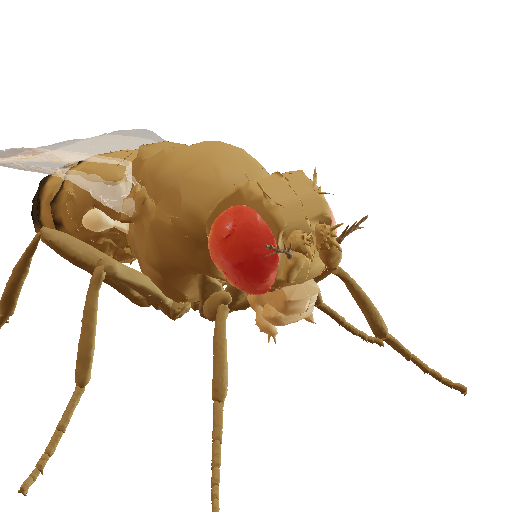
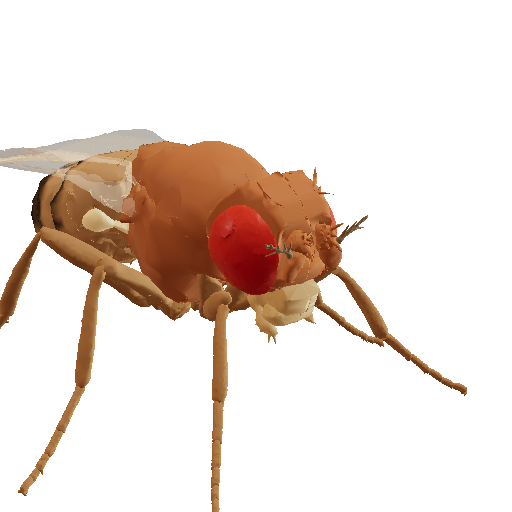
feat(concept): fly colors matched to a photograph of a real male
Measured from A. Karwath's photo of a male D. melanogaster on Wikimedia
Commons: thorax about #d09066 (ours now renders #cb874d), eye scarlet
#e72605, a paler cream abdomen between the dark bands, amber legs, clearer
wings. The body was mustard-yellow and the eye salmon before. Avatars
re-rendered.

Changed region(s): [[0.2188, 0.25, 0.6875, 0.5938]]

diff --git a/docs/concept/fly3d.js b/docs/concept/fly3d.js
@@ -211,14 +211,18 @@ window.Fly3D = function (opts) {
     // the rear edge of each abdominal tergite, and the last two tergites dark all over, which is what
     // marks a male. The pigment is on the back; the underside stays pale. The brain here is a male's.
     // The body scan, NeuroMechFly, is from a female, so the shape is hers and the coloring is his.
-    const matFor = n => n.includes("eye") ? new THREE.MeshStandardMaterial({color: 0x640c08, roughness: 0.32})
-      : n.includes("wing") ? new THREE.MeshPhysicalMaterial({color: 0xd9dee6, transparent: true, opacity: 0.4, side: THREE.DoubleSide, roughness: 0.12, depthWrite: false})
+    const matFor = n => n.includes("eye") ? new THREE.MeshStandardMaterial({color: 0xf01408, roughness: 0.38, envMapIntensity: 0.25})
+      : n.includes("wing") ? new THREE.MeshPhysicalMaterial({color: 0xe9dcc4, transparent: true, opacity: 0.3, side: THREE.DoubleSide, roughness: 0.1, depthWrite: false})
       : n.includes("arista") ? new THREE.MeshStandardMaterial({color: 0x241a12, roughness: 0.6})
       : n.includes("haltere") ? new THREE.MeshStandardMaterial({color: 0x9e8052, roughness: 0.5})
       : /rostrum|haustellum/.test(n) ? new THREE.MeshStandardMaterial({color: 0x5c4021, roughness: 0.6})
-      : /_(coxa|trochanterfemur|tibia|tarsus)/.test(n) ? new THREE.MeshStandardMaterial({color: 0x6e4c20, roughness: 0.6, envMapIntensity: 0.35})
+      : /_(coxa|trochanterfemur|tibia|tarsus)/.test(n) ? new THREE.MeshStandardMaterial({color: 0x8e4a20, roughness: 0.6, envMapIntensity: 0.35})
       : new THREE.MeshStandardMaterial({color: 0xffffff, vertexColors: true, roughness: 0.6, side: THREE.DoubleSide, envMapIntensity: 0.35});
-    const tan = new THREE.Color(0x946124), dark = new THREE.Color(0x0b0805);   // colors here are linear, so near-black has to be very low to read as black on screen
+    // Matched against a photograph of a real male (A. Karwath, Wikimedia Commons): the thorax and head
+    // are orange-amber, about #d09066 on screen; the abdomen is a paler cream between its dark bands;
+    // the eye is scarlet, #e72605. Colors here are linear, so each is the screen color put through the
+    // sRGB curve, and near-black has to be very low to read as black.
+    const tan = new THREE.Color(0xa83c16), cream = new THREE.Color(0xa8602f), dark = new THREE.Color(0x0c0604);   // set a little more saturated than the target: the room light adds white
     function stripe(g, name) {
       const pos = g.attributes.position, n = pos.count, c = new Float32Array(n * 3);
       let lo = Infinity, hi = -Infinity, ylo = Infinity, yhi = -Infinity;
@@ -231,7 +235,7 @@ window.Fly3D = function (opts) {
         let k = /abdomen[56]/.test(name) ? 1 : /abdomen[34]/.test(name) ? band : /abdomen12/.test(name) ? (f < 0.12 ? 1 : 0) : 0;
         k *= dorsal;
         if (name === "c_thorax") k = 0.18 * (1 - f);   // a little darker toward the scutellum
-        const col = tan.clone().lerp(dark, k); c[i * 3] = col.r; c[i * 3 + 1] = col.g; c[i * 3 + 2] = col.b;
+        const col = (/abdomen/.test(name) ? cream : tan).clone().lerp(dark, k); c[i * 3] = col.r; c[i * 3 + 1] = col.g; c[i * 3 + 2] = col.b;
       }
       g.setAttribute("color", new THREE.BufferAttribute(c, 3)); return g;
     }

diff --git a/docs/concept/index.html b/docs/concept/index.html
@@ -353,8 +353,8 @@
 <script src="https://cdnjs.cloudflare.com/ajax/libs/three.js/r128/three.min.js" integrity="sha384-CI3ELBVUz9XQO+97x6nwMDPosPR5XvsxW2ua7N1Xeygeh1IxtgqtCkGfQY9WWdHu" crossorigin="anonymous"></script>
 <script src="vendor/GLTFLoader.js"></script>
 <script src="vendor/RGBELoader.js"></script>
-<script src="fly3d.js?v=1789863623"></script>
-<script src="brain3d.js?v=1789863623"></script>
+<script src="fly3d.js?v=1789863848"></script>
+<script src="brain3d.js?v=1789863848"></script>
 <script>
 (async () => {
   // Switching flies reloads the page. Start at the top, not wherever the last one was scrolled to.
